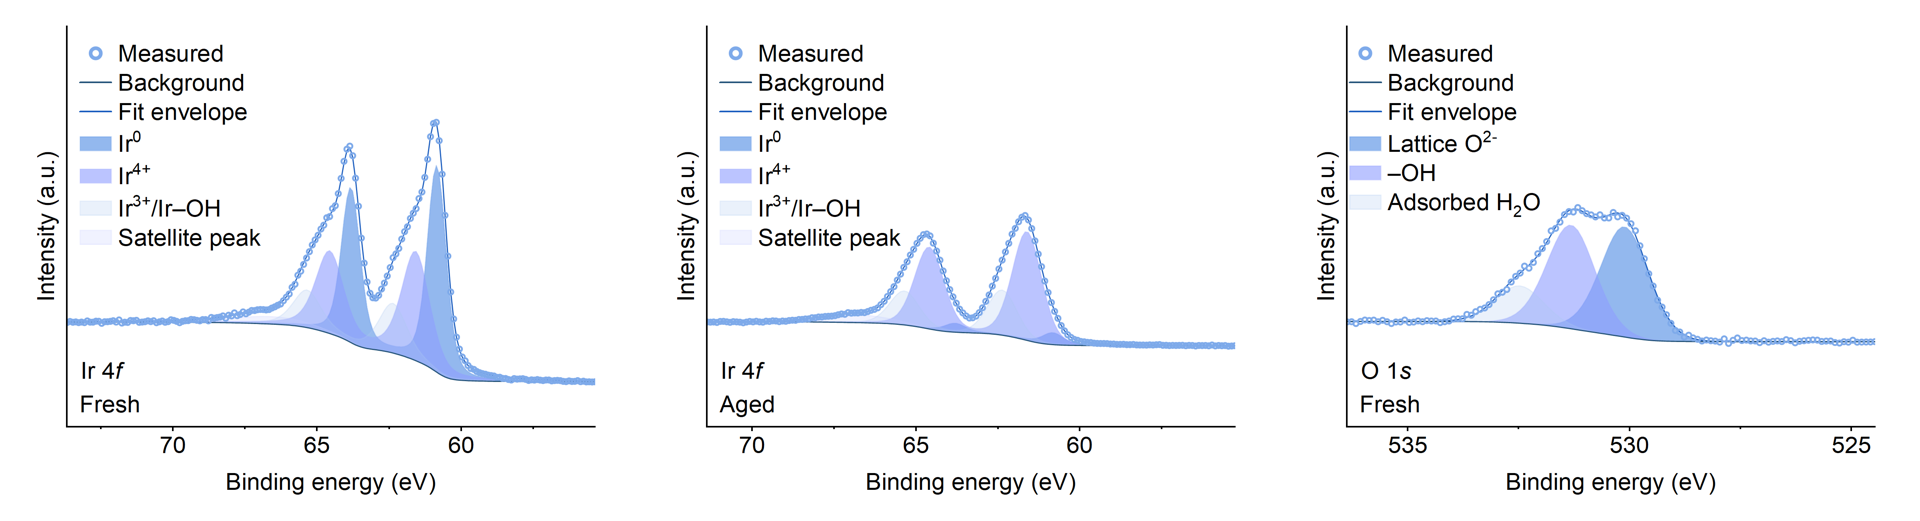
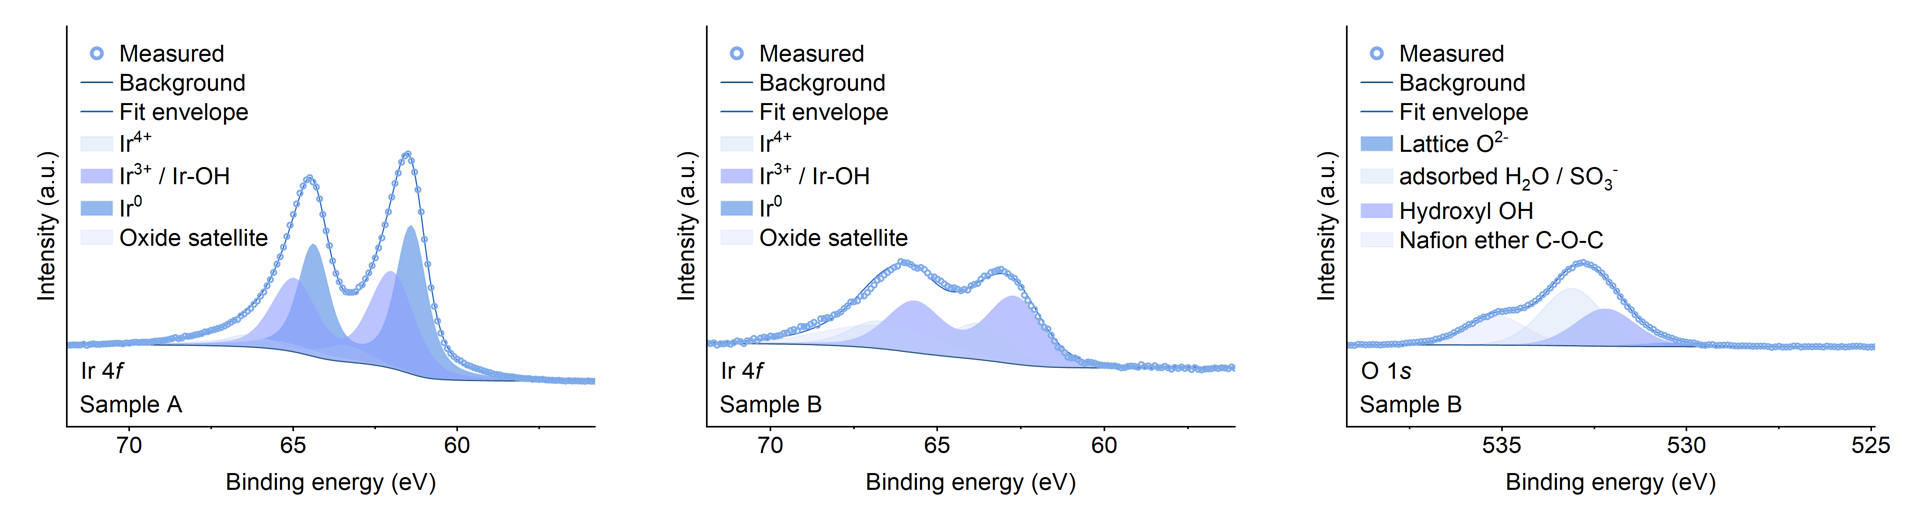
Ir 4f preset follows the spectrum; user's state convention; real-data example figures
- Ir 4f preset: oxidised states placed by their shift from Ir⁰ (fixed absolute windows pinned
  Ir⁰ at 61.3 eV on real data); convention low-shift oxide = Ir³⁺ / Ir-OH, high-shift = Ir⁴⁺,
  legend order Ir⁴⁺, Ir³⁺ / Ir-OH, Ir⁰, Oxide satellite (matches the Ir-new template)
- O 1s labels Lattice O²⁻ / adsorbed H₂O / Hydroxyl OH; new O 1s + Nafion preset
  (ether C–O–C excluded from catalyst fractions)
- Model legend_order (legend independent of colour order) in PNG, combined and Origin output
- Legend / label clearance measured from the drawn objects (matplotlib renderer; Origin object
  centre/size read back) so spectra fill the frame without overlaps; legend kept inside frame
- README example figures now rendered from real measurements with anonymised sample names
- Regression test: Ir 4f preset on a spectrum shifted by +0.6 eV (194 tests)

Cross-check on IrTa-200 vs the user's xps_fit_v3.py: aged Ir 4f 0 / 65.5 / 34.5 % vs
0 / 64.6 / 35.4 % (Ir⁰ / Ir³⁺ / Ir⁴⁺).

diff --git a/src/peakforge/export/origin_builder.py b/src/peakforge/export/origin_builder.py
@@ -36,6 +36,46 @@ def _set(lay, plot, *opts):
     lay.lt_exec(";".join(f"set {sname} {o}" for o in opts) + ";")
 
 
+def _lt(op, lay, expr: str) -> float:
+    lay.lt_exec(f"double __pfv = {expr};")
+    return float(op.lt_float("__pfv"))
+
+
+def _clear_legend_and_label(op, lay, xcol, y, hi, lo, ymin, ymax, span, use_tpl):
+    """Read back where Origin actually drew the legend (top-left) and the region/sample label
+    (bottom-left) and set the y range so the spectrum fills the frame without touching either.
+    Objects stay fixed on the page, so their positions as FRACTIONS of the frame are invariant.
+    Reversed BE axis: an object's x1 is its visual right edge."""
+    yd = y.max(axis=1)                   # highest curve at each energy
+    yb = y.min(axis=1)                   # lowest curve (background) at each energy
+    lab = "Text2" if use_tpl else "Text"
+    for _ in range(3):
+        yf, yt = _lt(op, lay, "layer.y.from"), _lt(op, lay, "layer.y.to")
+        rng = yt - yf
+        # objects: x, y = centre, dx, dy = size in axis units (dx < 0 on the reversed BE axis)
+        f_bot = (_lt(op, lay, "legend.y") - abs(_lt(op, lay, "legend.dy")) / 2 - yf) / rng
+        right = _lt(op, lay, "legend.x") - abs(_lt(op, lay, "legend.dx")) / 2
+        under = xcol >= right - 0.02 * (hi - lo)
+        need_top = yt
+        if under.any() and 0.2 < f_bot < 1.0:
+            top = float(yd[under].max())
+            need_top = max(ymax + 0.05 * span, yf + (top - yf) / max(0.05, f_bot - 0.03))
+        # label: fraction of frame height of its top, and its right edge
+        f_top = (_lt(op, lay, f"{lab}.y") + abs(_lt(op, lay, f"{lab}.dy")) / 2 - yf) / rng
+        if use_tpl:          # 'Text' (region) sits above 'Text2' (sample): use the higher of the two
+            f_top = max(f_top, (_lt(op, lay, "Text.y") + abs(_lt(op, lay, "Text.dy")) / 2 - yf) / rng)
+        right_l = _lt(op, lay, f"{lab}.x") - abs(_lt(op, lay, f"{lab}.dx")) / 2
+        under_l = xcol >= right_l - 0.02 * (hi - lo)
+        need_from = yf
+        if under_l.any() and 0.0 < f_top < 0.8:
+            bot = float(yb[under_l].min())
+            f = f_top + 0.03
+            need_from = min(ymin - 0.03 * span, (bot - f * need_top) / (1 - f))
+        if abs(need_top - yt) < 1e-6 * span and abs(need_from - yf) < 1e-6 * span:
+            break
+        lay.lt_exec(f"layer.y.from={need_from}; layer.y.to={need_top};")
+
+
 def build(spec: dict, op=None, show: bool = False):
     import pandas as pd
     if op is None:
@@ -95,25 +135,16 @@ def build(spec: dict, op=None, show: bool = False):
         ymin, ymax = float(y.min()), float(y.max())
         span = ymax - ymin
         step = 5 if hi - lo > 9 else 2
-        # legend (top-left) and region/sample label (bottom-left) must stay clear of the data on the
-        # high-BE (left) side: solve top and bottom limits together, as in the PNG renderer
         xcol = df.iloc[:, 0].to_numpy()
-        left = xcol >= hi - 0.47 * (hi - lo)
-        yl = y[left] if left.any() else y
-        top_left, bot_left = float(yl.max()), float(yl.min())
-        n_comp = sum(1 for c in g["columns"] if c["role"] == "comp")
-        f_leg = min(0.75, 0.068 * (3 + n_comp) + 0.05)
-        f_lab = 0.24
-        y_lo, y_hi = ymin - 0.32 * span, ymax + 0.08 * span
-        for _ in range(3):
-            y_hi = max(ymax + 0.08 * span, y_lo + (top_left - y_lo) / (1 - f_leg))
-            y_lo = min(ymin - 0.05 * span, bot_left - f_lab * (y_hi - y_lo))
+        y_lo, y_hi = ymin - 0.3 * span, ymax + 0.08 * span     # refined below from the drawn legend/label
         lay.lt_exec(f"layer.x.from={hi}; layer.x.to={lo}; layer.x.inc={step};"
                     f"layer.y.from={y_lo}; layer.y.to={y_hi};")
 
         entries = [f"\\l({i_m}) {g['legend'][0]}", f"\\l({i_b}) {g['legend'][1]}",
                    f"\\l({i_e}) {g['legend'][2]}"]
-        entries += [f"\\l({li}) {txt}" for li, txt in zip(legend_idx, g["legend"][3:])]
+        comp_entries = [f"\\l({li}) {txt}" for li, txt in zip(legend_idx, g["legend"][3:])]
+        order = g.get("legend_order") or list(range(len(comp_entries)))
+        entries += [comp_entries[i] for i in order if i < len(comp_entries)]
         leg = "%(CRLF)".join(entries)
         region = g.get("region", "").replace('"', "'")
         sample = g.get("sample", "").replace('"', "'")
@@ -122,16 +153,19 @@ def build(spec: dict, op=None, show: bool = False):
             lay.lt_exec(f'legend.text$="{leg}"; Text.text$="{region}"; Text2.text$="{sample}";'
                         f"legend.font=font({font}); Text.font=font({font}); Text2.font=font({font});"
                         f"xb.font=font({font}); yl.font=font({font}); layer.x.label.font=font({font});")
+            # a longer legend grows to the left past the frame: re-align its left edge with the
+            # bottom-left label (page units; on the reversed BE axis x1 is the visual RIGHT edge)
+            lay.lt_exec("legend.left = Text.left;")
         else:
             font = g.get("font", "Arial")
-            x_left = hi - 0.03 * (hi - lo)
             lay.lt_exec(
                 'xb.text$="Binding energy (eV)"; yl.text$="Intensity (a.u.)";'
                 "layer.y.showLabels=0; layer.y.ticks=0; layer.y.minorTicks=0;"
                 f'legend -r; legend.text$="{leg}"; legend.font=font({font}); legend.showframe=0;'
-                f"legend.x1={x_left}; legend.y2={ymax + 0.52 * span};"
-                f'label -s -sa -n Text "{region}%(CRLF){sample}"; Text.font=font({font});'
-                f"Text.showframe=0; Text.x1={x_left}; Text.y1={ymin - 0.25 * span};")
+                f'label -s -sa -n Text "{region}%(CRLF){sample}"; Text.font=font({font}); Text.showframe=0;'
+                f"Text.x1={lo + 0.97 * (hi - lo)}; Text.y1={y_lo + 0.03 * (y_hi - y_lo)};"
+                "Text.left = legend.left;")
+        _clear_legend_and_label(op, lay, xcol, y, hi, lo, ymin, ymax, span, use_tpl)
         if g.get("png"):
             gp.save_fig(g["png"], width=1600)
     op.save(spec["out"])

diff --git a/src/peakforge/export/figure.py b/src/peakforge/export/figure.py
@@ -38,6 +38,40 @@ def _darken(c, k=0.28):
     return tuple(max(0.0, v * (1 - k)) for v in c)
 
 
+def _fit_ylim(ax, res, o, x, leg, fs):
+    """Y limits so that the spectrum fills the panel while the top-left legend and the bottom-left
+    region/sample label stay clear of the data. The legend box is MEASURED (renderer), not guessed."""
+    ymin = float(min(res.y.min(), res.bg.min()))
+    ymax = float(max(res.y.max(), res.envelope.max()))
+    span = ymax - ymin or 1.0
+    try:
+        h_in = ax.get_position().height * ax.figure.get_figheight()
+    except Exception:       # noqa: BLE001
+        h_in = 3.0
+    line = fs * 1.32 / 72 / max(h_in, 0.5)
+    f_lab, f_lab_w = min(0.45, 2.6 * line + 0.05), 0.35      # label: height / width fractions
+    f_leg_h, f_leg_w = 0.0, 0.0
+    if leg is not None:
+        try:
+            r_ = ax.figure.canvas.get_renderer()
+            bb = leg.get_window_extent(r_).transformed(ax.transAxes.inverted())
+            f_leg_h, f_leg_w = 1.0 - bb.y0 + 0.03, bb.x1 + 0.03
+        except Exception:   # noqa: BLE001
+            f_leg_h, f_leg_w = 0.45, 0.4
+    xr = x.max() - x.min()
+    yy = np.maximum(res.y[o], res.envelope[o])
+    under_leg = x >= x.max() - f_leg_w * xr          # reversed axis: left = high BE
+    under_lab = x >= x.max() - f_lab_w * xr
+    top_leg = float(yy[under_leg].max()) if under_leg.any() else ymin
+    bot_lab = float(min(yy[under_lab].min(), res.bg[o][under_lab].min())) if under_lab.any() else ymin
+    lo_y, hi_y = ymin - 0.25 * span, ymax + 0.06 * span
+    for _ in range(4):
+        if f_leg_h:
+            hi_y = max(ymax + 0.06 * span, lo_y + (top_leg - lo_y) / max(1e-9, 1 - f_leg_h))
+        lo_y = min(ymin - 0.04 * span, bot_lab - f_lab * (hi_y - lo_y))
+    ax.set_ylim(lo_y, hi_y)
+
+
 def draw_fit(ax, model: RegionModel, res: FitResult, th_name: str | None = None, sample: str = "",
              region: str = "", legend: bool = True, residual_ax=None, fs: float = 12,
              offset: float = 0.0, show_labels: bool = True, legend_kw: dict | None = None,
@@ -58,48 +92,30 @@ def draw_fit(ax, model: RegionModel, res: FitResult, th_name: str | None = None,
                       mec=rgb01(th["data"]), mew=1.2, label="Measured"),
                Line2D([], [], color=rgb01(th["background"]), lw=lw, label="Background"),
                Line2D([], [], color=rgb01(th["envelope"]), lw=lw, label="Fit envelope")]
+    patches = {}
     for i, c in enumerate(model.components):
         col = rgb01(comp_color(th, i, c.color))
         edge = _darken(col)
         tot = np.sum(res.comp_curves[c.name], axis=0)[o]
         ax.fill_between(x, bg, bg + tot, color=col, alpha=th["fill_alpha"], lw=0)
         ax.plot(x, bg + tot, color=edge, lw=lw * 0.6, alpha=0.9)
-        handles.append(Patch(facecolor=(*col, th["fill_alpha"] + 0.15), edgecolor=edge, lw=0.8,
-                             label=label_mathtext(c.label or c.name)))
+        patches[c.name] = Patch(facecolor=(*col, th["fill_alpha"] + 0.15), edgecolor=edge, lw=0.8,
+                                label=label_mathtext(c.label or c.name))
+    handles += [patches[c.name] for c in model.legend_components()]
     ax.plot(x, bg, color=rgb01(th["background"]), lw=lw)
     ax.plot(x, res.envelope[o] + offset, color=rgb01(th["envelope"]), lw=lw)
     ax.plot(x, res.y[o] + offset, "o", ms=ms, mfc="none", mec=rgb01(th["data"]),
             mew=0.9, zorder=5)
     ax.set_xlim(x.max(), x.min())
-    if show_labels and offset == 0.0:
-        ymin = float(min(res.y.min(), res.bg.min()))
-        ymax = float(max(res.y.max(), res.envelope.max()))
-        span = ymax - ymin or 1.0
-        try:
-            h_in = ax.get_position().height * ax.figure.get_figheight()
-        except Exception:       # noqa: BLE001
-            h_in = 3.0
-        line = fs * 1.32 / 72 / max(h_in, 0.5)            # one text line as a fraction of axes height
-        f_lab = min(0.45, 2.6 * line + 0.05)               # bottom-left: region + sample label
-        f_leg = min(0.75, (3 + len(model.components)) * line + 0.04) if legend else 0.0
-        xr = x.max() - x.min()
-        left = x >= x.max() - 0.47 * xr                    # high-BE side = left on a reversed axis
-        y_left = np.maximum(res.y[o], res.envelope[o])[left] if left.any() else np.array([ymin])
-        top_left, bot_left = float(y_left.max()), float(min(y_left.min(), res.bg[o][left].min()))
-        lo_y, hi_y = ymin - 0.42 * span, ymax + 0.06 * span
-        for _ in range(3):   # legend clear of the left-side data, label clear of the left baseline
-            T = hi_y - lo_y
-            if legend:
-                hi_y = max(ymax + 0.06 * span, lo_y + (top_left - lo_y) / max(1e-9, 1 - f_leg))
-            T = hi_y - lo_y
-            lo_y = min(ymin - 0.05 * span, bot_left - f_lab * T)
-        ax.set_ylim(lo_y, hi_y)
     style_axes(ax, th, fs)
+    leg = None
     if legend:
         kw = dict(frameon=False, loc="upper left", prop={"family": th["font"], "size": fs},
                   handlelength=1.6, handleheight=0.8, labelspacing=0.25, borderaxespad=0.3)
         kw.update(legend_kw or {})
-        ax.legend(handles=handles, **kw)
+        leg = ax.legend(handles=handles, **kw)
+    if show_labels and offset == 0.0:
+        _fit_ylim(ax, res, o, x, leg, fs)
     if show_labels:
         reg = region_mathtext(region or model.region)
         smp = label_mathtext(sample) if sample else ""

diff --git a/tools/make_readme_images.py b/tools/make_readme_images.py
@@ -1,4 +1,4 @@
-"""Rebuild docs/images from the synthetic demo data (never from real measurements).
+"""Rebuild the synthetic-data images in docs/images (palettes, stacked comparison).
 
     python tools/make_demo_data.py
     python tools/make_readme_images.py <scratch folder>      (needs Origin + originpro for origin_export.png)
@@ -36,14 +36,8 @@ for k in p.keys(narrow_only=True):
 
 items = [(p.sample_label(p.spectra[k].sample), p.spectra[k].region, p.get_model(k), p.result(k))
          for k in p.keys("Ir 4f") + p.keys("O 1s")[:1]]
-# 2x2 publication panel: Ir 4f in blues, O 1s in teal-greens, (a)-(d)
-panels = []
-for reg, th, style in (("Ir 4f", "glacier", "stacked"), ("O 1s", "lagoon", "inline")):
-    for smp in ("demo_fresh", "demo_aged"):
-        k_ = p.keys(reg, smp)[0]
-        panels.append(dict(model=p.get_model(k_), result=p.result(k_), theme=th, region=reg,
-                           sample=p.sample_label(smp), label_style=style))
-save_panel_figure(os.path.join(IMG, "panel_example.png"), panels, ncols=2, dpi=130)
+# panel_example.png and origin_export.png are rendered from real measurements (sample names
+# anonymised) by a private script — not regenerated here.
 save_stack_figure(os.path.join(IMG, "compare_ir4f.png"),
                   [(s, m, r) for s, reg, m, r in items if reg == "Ir 4f"], "fjord", "Ir 4f", dpi=110)
 k = p.keys("Ir 4f")[0]
@@ -59,19 +53,4 @@ for i, (fid, zh, en, ids) in enumerate(grouped()[:6]):
         ax.set_xlabel("")
 fig.savefig(os.path.join(IMG, "palettes.png"), dpi=60)
 
-try:
-    out = os.path.join(work, "origin_png")
-    export_origin(items, out, png=True)
-    from PIL import Image
-    pngs = [os.path.join(out, f"{s}_{reg.replace(' ', '')}_origin.png") for s, reg, _m, _r in items]
-    ims = [Image.open(f) for f in pngs]
-    ims = [i.resize((i.width * 2 // 5, i.height * 2 // 5)) for i in ims]
-    c = Image.new("RGB", (sum(i.width for i in ims), max(i.height for i in ims)), "white")
-    x = 0
-    for i in ims:
-        c.paste(i, (x, 0))
-        x += i.width
-    c.save(os.path.join(IMG, "origin_export.png"))
-except Exception as e:      # noqa: BLE001
-    print("Origin preview skipped:", e)
 print("project:", p.path)

diff --git a/src/peakforge/core/model.py b/src/peakforge/core/model.py
@@ -177,8 +177,14 @@ class RegionModel:
     weighting: str = "none"                          # 'none' | 'poisson'
     note: str = ""
     preset: str = ""
+    legend_order: list[str] = field(default_factory=list)   # component names; colours keep list order
 
     # ---------------------------------------------------------------- access
+    def legend_components(self) -> list["Component"]:
+        """Components in legend order (legend_order first, then the rest in list order)."""
+        names = [n for n in self.legend_order if n in self.names()]
+        return [self.comp(n) for n in names] + [c for c in self.components if c.name not in names]
+
     def comp(self, name: str) -> Component:
         for c in self.components:
             if c.name == name:
@@ -242,12 +248,13 @@ class RegionModel:
         return dict(region=self.region, preset=self.preset, note=self.note, weighting=self.weighting,
                     fit_range=list(self.fit_range) if self.fit_range else None,
                     background=self.background.to_json(),
-                    components=[c.to_json() for c in self.components])
+                    components=[c.to_json() for c in self.components],
+                    **({"legend_order": list(self.legend_order)} if self.legend_order else {}))
 
     @classmethod
     def from_json(cls, d) -> "RegionModel":
         return cls(region=d.get("region", ""), preset=d.get("preset", ""), note=d.get("note", ""),
-                   weighting=d.get("weighting", "none"),
+                   weighting=d.get("weighting", "none"), legend_order=list(d.get("legend_order", [])),
                    fit_range=tuple(d["fit_range"]) if d.get("fit_range") else None,
                    background=BackgroundSpec.from_json(d.get("background")),
                    components=[Component.from_json(c) for c in d.get("components", [])])

diff --git a/tests/test_core.py b/tests/test_core.py
@@ -126,3 +126,24 @@ def test_spe_equals_vms():
             assert np.allclose(s.cps, t.cps, rtol=1e-5)
         pairs += 1
     assert pairs > 0
+
+
+def test_ir4f_preset_follows_shifted_spectrum():
+    """Ir⁰ found at 61.5 eV after charge correction (real IrTaOx data): the preset must follow without
+    pinning Ir⁰ / oxide positions at their bounds (oxides are placed by their shift from Ir⁰)."""
+    from peakforge import presets
+    from peakforge.spectrum import Spectrum
+    rng = np.random.default_rng(3)
+    x = np.arange(55, 75, 0.1)
+    y = np.zeros_like(x)
+    for shape, c, w, a, kw in (("ds", 61.5, 0.55, 20000, dict(alpha=0.12, gamma=0.35)),
+                               ("pvoigt", 62.2, 1.2, 15000, dict(eta=0.3)),
+                               ("pvoigt", 63.4, 1.2, 3000, dict(eta=0.3))):
+        y += a * lineshapes.profile(shape, x, c, w, **kw) + 0.75 * a * lineshapes.profile(shape, x, c + 2.98, w, **kw)
+    y = rng.poisson(y + 2000 + 1500 * np.cumsum(y) / np.sum(y)).astype(float)
+    sp = Spectrum(region="Ir 4f", be=x, cps=y)
+    m = presets.model_from_preset("ir4f_metal_oxide", sp)
+    r = fit(m, prepare(sp.be, sp.cps, m), n_starts=4)
+    assert not [h for h in r.bound_hits if h.startswith(("Ir0.center", "Ir3.shift", "Ir4.shift"))], r.bound_hits
+    assert abs(r.values["Ir0"]["center"] - 61.5) < 0.15
+    assert [c.name for c in m.legend_components()][:3] == ["Ir4", "Ir3", "Ir0"]

diff --git a/src/peakforge/presets.py b/src/peakforge/presets.py
@@ -95,7 +95,8 @@ def model_from_preset(preset: dict | str, sp: Spectrum | None = None, shift: flo
                     background=BackgroundSpec.from_json(preset.get("background")),
                     fit_range=tuple(preset["range"]) if preset.get("range") else None,
                     note=preset.get("note_en", ""),
-                    components=[Component.from_json(c) for c in preset.get("components", [])])
+                    components=[Component.from_json(c) for c in preset.get("components", [])],
+                    legend_order=list(preset.get("legend_order", [])))
     if sp is not None:
         _clip_range(m, sp, shift)
         auto_background(m, sp, shift)
@@ -122,6 +123,7 @@ def save_user_preset(model: RegionModel, pid: str, name_en: str, name_zh: str = 
     js = model.to_json()
     p = dict(id=pid, name_en=name_en, name_zh=name_zh or name_en, region=model.region,
              range=js["fit_range"], background=js["background"], components=js["components"],
+             legend_order=js.get("legend_order", []),
              note_en=model.note, note_zh=model.note)
     path = os.path.join(d, f"{pid}.json")
     with open(path, "w", encoding="utf-8") as f:

diff --git a/src/peakforge/export/origin.py b/src/peakforge/export/origin.py
@@ -47,6 +47,7 @@ def make_spec(items: list[tuple[str, str, RegionModel, FitResult]], out_dir: str
             region=region_origin(region), sample=label_origin(sample),
             legend=["Measured", "Background", "Fit envelope"] + [label_origin(c.label or c.name)
                                                                 for c in model.components],
+            legend_order=[model.names().index(c.name) for c in model.legend_components()],
             xlim=[float(res.x.max()), float(res.x.min())],
             png=os.path.abspath(os.path.join(out_dir, book + "_origin.png")) if png else None))
     tpl = os.path.join(os.path.dirname(os.path.dirname(__file__)), "assets", "PeakForge_XPS.otpu")

diff --git a/README.md b/README.md
@@ -40,7 +40,7 @@
 
 ### 导出效果
 
-PeakForge 直接生成的组合图（`figures/combined.png`；示例为仓库自带的模拟数据，Ir 4f 用“冰川”配色、O 1s 用“泻湖”配色）：
+PeakForge 直接生成的组合图（`figures/combined.png`）。示例为真实测量的 IrTaOx 电催化剂（样品名已匿名：A 反应前、B 反应后），Ir 4f 用“冰川”配色、O 1s 用“泻湖”配色；B 的 Ir⁰ 峰位与线形固定为 A 的拟合值，B 的 O 1s 含 Nafion 醚氧峰：
 
 ![组合图示例](docs/images/panel_example.png)
 
@@ -58,7 +58,7 @@ PeakForge 直接生成的组合图（`figures/combined.png`；示例为仓库自
 - **线形**：高斯、洛伦兹、伪 Voigt、GL/SGL（CasaXPS 记法）、Voigt、Doniach–Šunjić（金属不对称峰）、LA 不对称线形。
 - **约束**：每个参数可设上下限、固定，或联动（如“Ir³⁺ 的半峰宽 = Ir⁴⁺ 的半峰宽”）；自旋轨道双峰的间距与面积比自动带入。
 - **全元素**：Li–U 共 90 种元素、169 个能级。没有预设的元素用“通用：自动找峰”——自动识别各化学态的主峰、去掉双峰的伴峰、按残差补肩峰；多重态复杂的能级（如 Ce 3d、Ni 2p）自动改用自由单峰。
-- **预设库**：C 1s 污染碳、O 1s 氧化物、Ir 4f、Ta 4f、Pt 4f、Au 4f；调好的模型可以存成自己的预设。
+- **预设库**：C 1s 污染碳、O 1s 氧化物、O 1s 氧化物 + Nafion、Ir 4f（氧化态按相对 Ir⁰ 的位移放置）、Ta 4f、Pt 4f、Au 4f；调好的模型可以存成自己的预设。
 - **诊断、批量、定量**：见上表；定量的灵敏度因子可在表格里改成你仪器的值。
 - **导出**：Origin `.opju`（本机有 Origin 时直接生成；没有时生成数据 + 一个脚本，在 Origin 里运行一行即可）、PNG/TIFF/SVG/PDF、Excel（含各组分参数、拟合质量、定量、曲线数据、软件信息与免责声明）。
 

diff --git a/README_en.md b/README_en.md
@@ -35,7 +35,7 @@ A common XPS workflow: fit in the instrument software (Thermo **Avantage**, PHI 
 
 **When you still need Avantage / CasaXPS / MultiPak:** for cross-checking before publication (strongly recommended — see the [disclaimer](#disclaimer)), for vendor-specific transmission functions and RSF libraries, and for depth profiles, imaging, ARXPS (not in PeakForge 0.1).
 
-Combined figure generated by PeakForge (`figures/combined.png`; synthetic demo data, Ir 4f in *Glacier*, O 1s in *Lagoon*):
+Combined figure generated by PeakForge (`figures/combined.png`) from real measurements of an IrTaOx electrocatalyst (sample names anonymised: A fresh, B after operation); Ir 4f in *Glacier*, O 1s in *Lagoon*; B's Ir⁰ position and line shape fixed to A's fit, B's O 1s includes the Nafion ether peak:
 
 ![Panel example](docs/images/panel_example.png)
 
